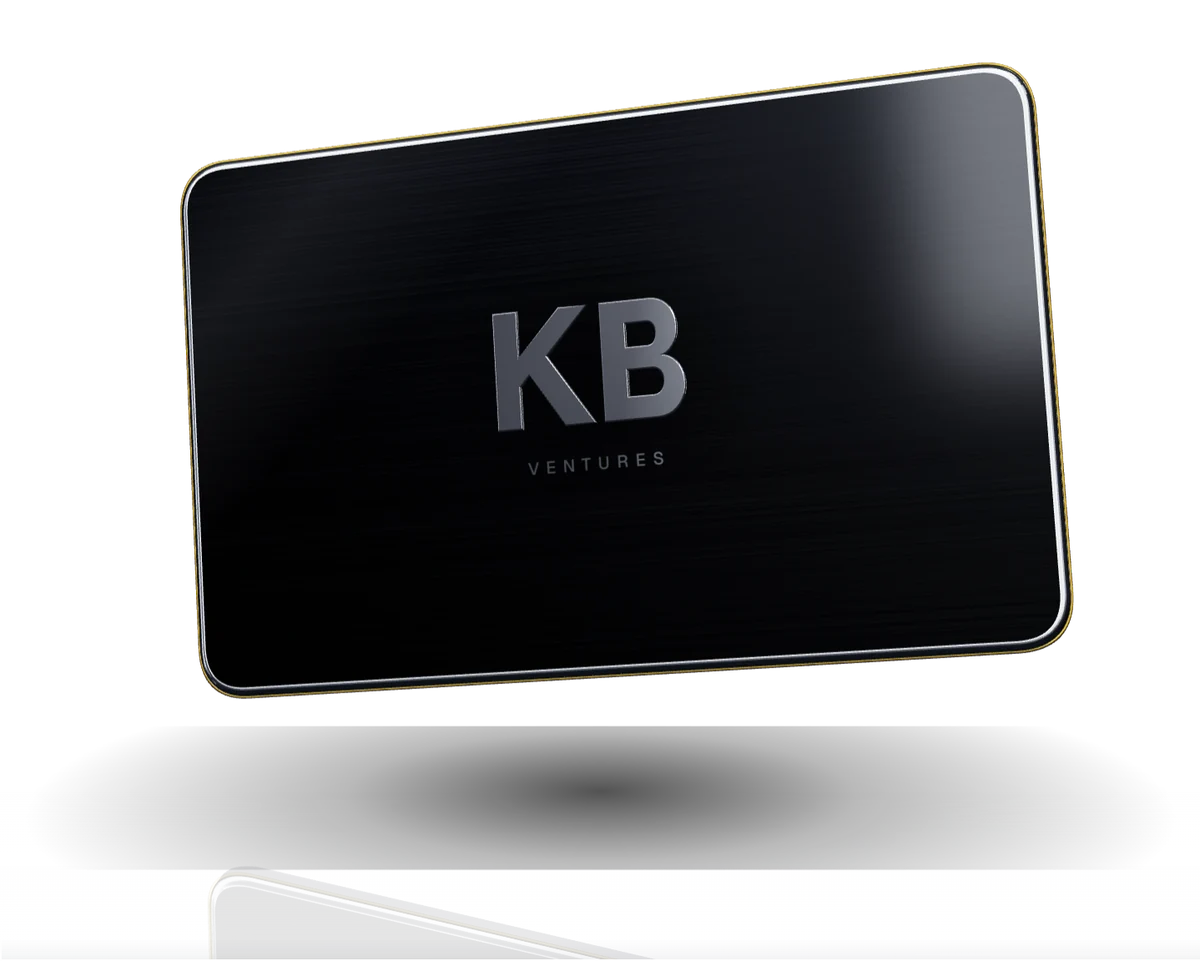
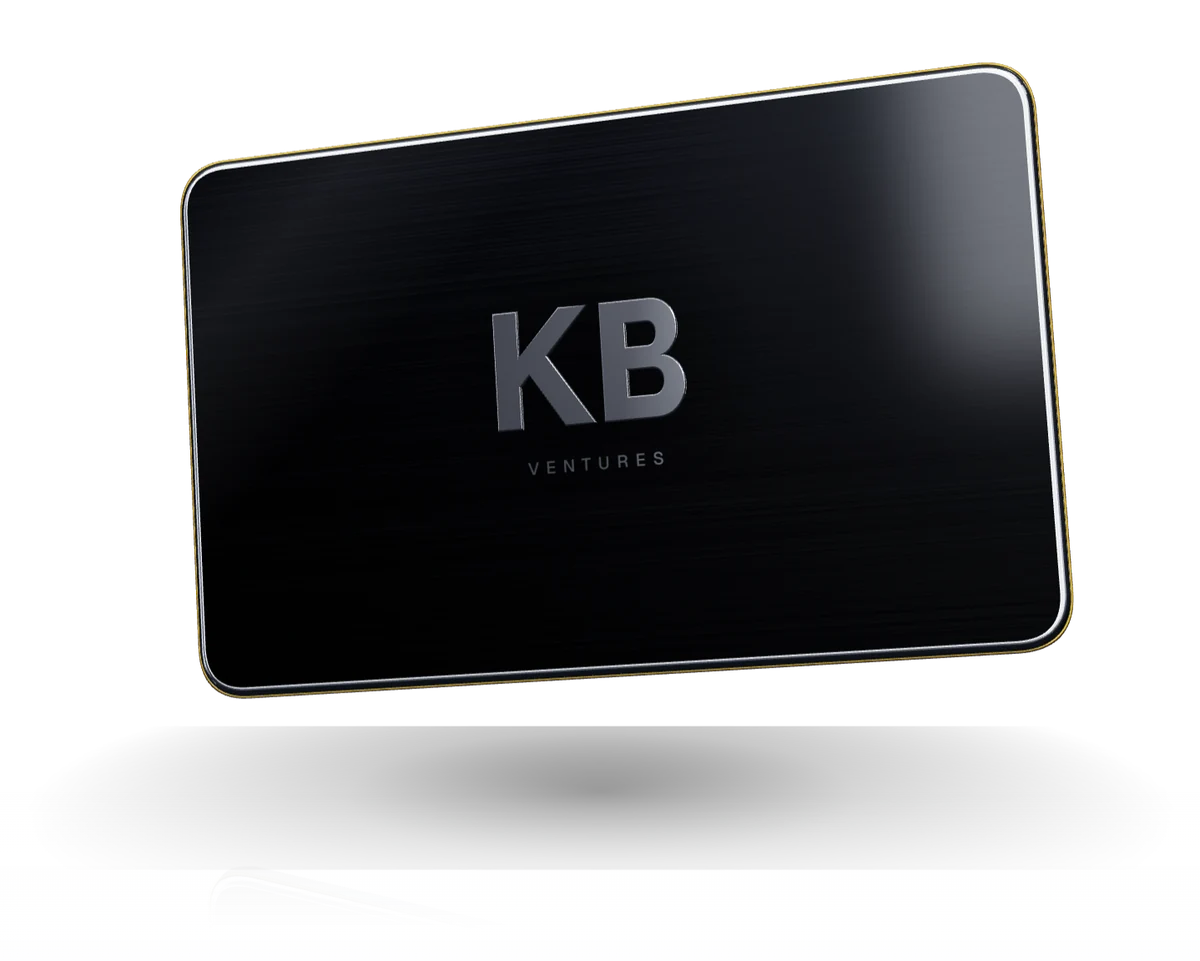
kbventures-site: metal-and-glass card hero (studio lighting, embossed mark, matching still), seam-free horizon bands, glossier cards, docs
Claude-Session: https://claude.ai/code/session_01BYVfkD9LZUq4PJnMCyeNm3

Changed region(s): [[0.1542, 0.7804, 0.8017, 0.999]]

diff --git a/kbventures-site/styles.css b/kbventures-site/styles.css
@@ -20,7 +20,7 @@
   --edge: linear-gradient(90deg, rgba(255, 255, 255, 0), rgba(255, 255, 255, .5) 50%, rgba(255, 255, 255, 0));
   --sheen: linear-gradient(115deg, rgba(255, 255, 255, 0) 30%, rgba(255, 255, 255, .05) 45%, rgba(255, 255, 255, .012) 52%, rgba(255, 255, 255, 0) 62%);
   /* a slightly lighter band at the horizon (bottom) of each section, like light falling on a glass floor */
-  --horizon: radial-gradient(75% 60px at 50% 100%, rgba(var(--light), .07), rgba(var(--light), 0) 100%), linear-gradient(180deg, rgba(var(--light), 0) 70%, rgba(var(--light), .022) 100%);
+  --horizon: radial-gradient(50% 50% at 50% 50%, rgba(var(--light), .065), rgba(var(--light), .02) 55%, rgba(var(--light), 0) 100%);
   --panel: linear-gradient(180deg, #20232B 0%, #181A21 55%, #15171D 100%);
   --metal-text: linear-gradient(180deg, #F5F6FA 0%, #E4E6ED 48%, #C3C7D0 100%); /* about 10% light-to-silver */
   --platinum-pill: linear-gradient(180deg, #F6F7FA 0%, #E2E4EA 52%, #CBCED6 100%);
@@ -110,6 +110,8 @@ a { color: inherit; }
 @media (min-width: 1024px) { .hero-stage { margin: 0 -48px 0 -16%; } }
 .hero-still, .hero-stage canvas { position: absolute; inset: 0; width: 100%; height: 100%; }
 .hero-still { object-fit: contain; transition: opacity 1.2s var(--ease); }
+/* the floor reflection under the object dissolves into the page */
+.hero-still, .hero-stage canvas { -webkit-mask-image: linear-gradient(180deg, #000 72%, rgba(0, 0, 0, 0) 97%); mask-image: linear-gradient(180deg, #000 72%, rgba(0, 0, 0, 0) 97%); }
 .hero-stage canvas { display: block; opacity: 0; transition: opacity 1.2s var(--ease); touch-action: pan-y; }
 .hero-stage.has-3d canvas { opacity: 1; }
 .hero-stage.has-3d .hero-still { opacity: 0; }
@@ -137,8 +139,10 @@ a { color: inherit; }
 .browser::after, .phone::after { content: ""; position: absolute; inset: 0; z-index: 1; pointer-events: none; border-radius: inherit; background: linear-gradient(128deg, rgba(255, 255, 255, .09) 0%, rgba(255, 255, 255, .025) 26%, rgba(255, 255, 255, 0) 42%); }
 
 /* ---------- Sections ---------- */
-.section { position: relative; padding-top: var(--section); padding-bottom: 1px; background: var(--horizon); }
-.hero { background: var(--horizon); padding-bottom: 48px; }
+.section { position: relative; padding-top: var(--section); }
+.hero { padding-bottom: 48px; }
+/* the horizon band straddles each section's bottom edge, so it fades out on both sides with no seam */
+.section::after, .hero::after { content: ""; position: absolute; z-index: -1; left: 0; right: 0; bottom: -90px; height: 180px; pointer-events: none; background: var(--horizon); }
 .section-contact { padding-bottom: var(--section); }
 .section-websites { isolation: isolate; overflow-x: clip; }
 .section-websites::before { content: ""; position: absolute; z-index: -1; left: 50%; top: 58%; width: min(1800px, 190vw); aspect-ratio: 2 / 1; transform: translate(-50%, -50%); pointer-events: none; background: radial-gradient(closest-side, rgba(var(--light), .11), rgba(var(--light), .04) 55%, rgba(var(--light), 0) 100%); }

diff --git a/kbventures-site/scene.js b/kbventures-site/scene.js
@@ -2,7 +2,8 @@
 // one fine brushed-gold line around the outer bevel and a raised, polished-metal KB mark. Lit by a small studio
 // (three bright light strips baked into the environment map) so the glass and bevels carry real specular highlights.
 // It floats in perspective with a slow drift, leans toward the pointer or the phone's tilt, and a wide soft reflection
-// sweeps across the face every few seconds. A contact shadow and a faint mirror image sit beneath it. Three.js r160.
+// sweeps across the face every few seconds. A contact shadow and a faint mirror image sit beneath it; the canvas fades
+// out at the bottom with a CSS mask so the mirror image dissolves into the page. Three.js r160.
 import * as THREE from 'three';
 
 const W = 3.2, H = 2.02, D = 0.05;   // a card's proportions, thin
@@ -166,15 +167,9 @@ export function initScene(canvas, { lowEnd = false, onLost = () => {} } = {}) {
   scene.add(shadow);
   const mirror = card.clone(true);
   mirror.traverse((o) => { if (o.material) { o.material = Array.isArray(o.material) ? o.material.map((m) => fade(m)) : fade(o.material); } });
-  function fade(m) { const c = m.clone(); c.transparent = true; c.opacity = (m.opacity ?? 1) * 0.1; c.depthWrite = false; return c; }
+  // faint; the canvas itself fades out at the bottom (CSS mask)
+  function fade(m) { const c = m.clone(); c.transparent = true; c.opacity = (m.opacity ?? 1) * 0.09; c.depthWrite = false; return c; }
   scene.add(mirror);
-  // a floor-coloured veil in front of the mirror image, so it fades out downward
-  const veil = new THREE.Mesh(new THREE.PlaneGeometry(9, 3.4), new THREE.MeshBasicMaterial({
-    map: canvasTexture(8, 256, (g, w, h) => { const grd = g.createLinearGradient(0, 0, 0, h); grd.addColorStop(0, 'rgba(9,11,17,0)'); grd.addColorStop(0.35, 'rgba(9,11,17,.75)'); grd.addColorStop(1, 'rgba(9,11,17,1)'); g.fillStyle = grd; g.fillRect(0, 0, w, h); }),
-    transparent: true, depthWrite: false, toneMapped: false,
-  }));
-  veil.position.set(0, FLOOR - 1.7, 1.4);
-  scene.add(veil);
 
   // Rest pose: tilted about 15 degrees back and 16 degrees sideways (also the pose of img/hero-object.webp)
   const REST = { x: -0.27, y: -0.28, z: 0.06 };

diff --git a/kbventures-site/hero.js b/kbventures-site/hero.js
@@ -1,6 +1,6 @@
 // Hero object: a pre-rendered still (img/hero-object.webp) is in the page from the start. The live Three.js version
 // fades in over it once loaded, but only when WebGL works, the visitor hasn't asked for reduced motion, Data Saver is off
-// and the device isn't a low-powered phone. Testing aids: ?3d=on forces 3D, ?3d=off keeps the still, ?shine=more|less.
+// and the device isn't a low-powered phone. Testing aids: ?3d=on forces 3D, ?3d=off keeps the still.
 const stage = document.getElementById('stage'), canvas = document.getElementById('scene');
 const reduceMotion = window.matchMedia('(prefers-reduced-motion: reduce)').matches;
 const q = new URLSearchParams(location.search);
@@ -27,7 +27,7 @@ if (stage && canvas) {
     loaded.then(idle)
       .then(() => (document.fonts ? document.fonts.ready : null)) // the mark on the glass uses Geist
       .then(() => import('./scene.js'))
-      .then((m) => m.initScene(canvas, { lowEnd, shine: q.get('shine') || 'less', onLost: () => fail(new Error('context lost')) }))
+      .then((m) => m.initScene(canvas, { lowEnd, onLost: () => fail(new Error('context lost')) }))
       .then((h) => {
         clearTimeout(timer);
         if (done) { h.dispose(); return; }

diff --git a/kbventures-site/brand.md b/kbventures-site/brand.md
@@ -25,13 +25,13 @@ Inspired by the *feel* of a premium dark product page (Revolut's Ultra plan page
 ```
 - **Type:** Geist (SIL Open Font License, self-hosted), weight 500 for headings, tight line height, slightly negative letter-spacing. Hero h1 `clamp(40px, 5.2vw, 76px)` (four lines beside the hero object), section h2 `clamp(34px, 6vw, 80px)`, body 17–18px at 1.6, small labels in uppercase with wide tracking in silver.
 - **Light and shine (replaces the earlier "nothing glows, no metallic fills" rule, 27 October 2026):** the page should look like a lit product photo of brushed metal and piano-black glass, restrained but visible.
-  - Background: a layered deep blue-black surface (`#090B11` base), a cool silver-blue light pool behind the hero object and a fainter one behind the demo row, a vignette at the screen edges, and 3.5% film grain so gradients never band.
-  - Hero: a Three.js (r160, self-hosted) slab of anisotropic brushed metal with a piano-black glass face, a thin brushed-gold edge and the KB Ventures mark, lit by a studio environment plus key and rim lights, with a soft shadow beneath. It turns slowly, leans toward the pointer or phone tilt, and a soft reflection sweeps the glass every 9 seconds. A pre-rendered still (`img/hero-object.webp`) stands in while it loads, without WebGL, on weak phones, on Data Saver and with reduced motion.
-  - Cards and frames: dark glossy panels with a 1px top-edge highlight fading to the sides, a faint diagonal sheen, a slightly lighter inner border, and one slow light sweep on hover. Screenshot frames are polished dark-metal bezels with a bright edge and a soft reflection on the glass.
+  - Background: a layered deep blue-black surface (`#090B11` base) that reads like lit glass: a faint light from the top of the screen, three cool silver-blue light pools (behind the hero object, the demo row and the contact section), a slightly lighter band at the horizon of each section that fades out on both sides of the edge, a vignette at the screen edges, and 3.5% film grain so gradients don't band.
+  - Hero: a Three.js (r160, self-hosted) card, not a framed screen. It has the proportions of a thin card with corners at 6% of its width, deep black glass over fine brushing with a subtle vertical gradient, and a slim bevelled metal edge that catches a bright line along the top and falls dark at the bottom. One fine brushed-gold line runs around the outer bevel only, and the KB mark is raised polished metal with a soft shadow, with VENTURES in metallic foil. It is lit by a small studio built into the environment map (three bright light strips plus a soft panel above the viewer), so it carries real specular highlights. It is tilted about 15 degrees on two axes, drifts slowly, leans toward the pointer or phone tilt, and a wide soft reflection sweeps the face every 7 seconds. A contact shadow and a faint mirror image sit beneath it, fading into the page. A pre-rendered still (`img/hero-object.webp`) stands in while it loads, without WebGL, on weak phones, on Data Saver and with reduced motion.
+  - Cards and frames: dark glossy panels with a 1px bright top edge fading to the sides, a faint diagonal sheen, a slightly lighter inner border, a soft shadow underneath, and one slow light sweep on hover. Screenshot frames are polished dark-metal bezels with a bright edge and a soft reflection on the glass.
   - Headlines: platinum with a light-to-silver vertical fall-off of about 10%, repeated per line. Primary pills: polished platinum with a fine top highlight, and a highlight that slides across once on hover.
-  - Never rainbow or gold gradients, never neon, never pulsing or blinking. Two shine levels were compared and the quieter one shipped.
+  - Never rainbow or gold gradients, never neon, never pulsing or blinking. New hero objects are compared with the previous one, and only the one that looks more like a real expensive object ships.
 - **Buttons:** small pills. Primary is polished platinum (light to slightly darker platinum, fine top highlight, a small soft drop shadow) with obsidian text. Secondary is dark glass with a 1px silver border that turns gold on hover.
-- **Gold, used only for:** the short hairline under the hero label, secondary-button borders on hover, links on hover, the Live/Starting dots, and the thin brushed-gold edge (and hairline under the mark) on the hero object.
+- **Gold, used only for:** the short hairline under the hero label, secondary-button borders on hover, links on hover, the Live/Starting dots, and the single fine brushed-gold line on the hero card's outer bevel.
 - **Cards:** glossy graphite panels (see Light and shine), 1px silver border, 20px radius. Secondary text starts dimmed and brightens to platinum on hover or focus. (The brief asked for silver at about 60% opacity, but that measures 2.75:1 on graphite, under the 4.5:1 minimum. So the dimmed state is full silver at 5.3:1 and the hover state is platinum: the same effect, still readable.)
 - **Layout:** on desktop the hero has two columns, text on the left (about 57%) and the lit object on the right, overlapping the column edge a little; on phones they stack. Every later section is centred (headline, one paragraph, one pill, then the visual). 140px or more between sections on desktop, 80px on phones.
 - **Nav:** slim and sticky. Wordmark on the left; Businesses, Websites, Contact and a small "Get in touch" pill on the right. On phones the text links fold away and the pill stays.

diff --git a/kbventures-site/CHANGES.md b/kbventures-site/CHANGES.md
@@ -1,4 +1,46 @@
-# Changes: KB Ventures, brushed metal and piano-black glass (27 October 2026)
+# Changes: KB Ventures, a real metal-and-glass card (28 October 2026)
+
+The layout, copy, footer, buttons and demo row are unchanged. This round fixes the three things that still looked flat.
+
+## 1. Hero object: a card, not a framed screen
+- **Shape:** rebuilt as a thin card with corners rounded to 6% of its width. The front is deep black glass all the way to a slim bevelled metal edge, so the thick silver border and the gold inner outline are gone.
+- **Edge lighting:** the bevel catches a bright highlight along the top and falls darker at the bottom. One fine brushed-gold line runs around the outer bevel only.
+- **Face:** deep black glass with a subtle vertical gradient over fine horizontal brushing, under a clear coat. A wide, soft reflection band sweeps across it every 7 seconds.
+- **Mark:** "KB" is raised polished metal, built as real 3D letters with a bevelled top edge that catches the light and a soft shadow in the glass beneath. "VENTURES" sits below in metallic foil.
+- **Lighting:** a small studio built into the environment map, with three bright light strips (overhead, left, back-right) and a soft panel above the viewer. The glass and bevels show real specular highlights instead of plain grey.
+- **Pose and motion:** tilted about 15 degrees back and 16 degrees sideways, in real perspective. It drifts slowly, leans gently toward the mouse (or the phone's tilt on Android), and has a soft contact shadow and a faint mirror image beneath it that fades into the page.
+- **Still fallback:** `img/hero-object.webp` was re-rendered from the same scene, so it matches the live 3D. It shows while the 3D loads, without WebGL, on Data Saver, on low-powered phones and with reduced motion.
+- **Compared with the old object:** side by side, the old one read as a TV in a silver frame and the new one as a real metal card, so the new one ships. It took three lighting passes before the raised mark read as polished metal rather than dark grey.
+
+## 2. Background with depth
+- A deep blue-black base with a faint light from the top of the screen.
+- Three soft cool light pools, behind the hero object, behind the demo row and behind the contact section.
+- A slightly lighter band at the horizon of each section. It straddles the section edge and fades out on both sides, so there is no seam.
+- A vignette at the screen edges and a 3.5% film grain over everything.
+
+## 3. Glossier cards
+The "What we run" and demo cards now have a brighter 1px top edge fading to the sides, a stronger diagonal sheen, a lighter inner border and a soft shadow underneath. On hover, one slow light sweep passes across once, with no pulsing or blinking.
+
+## Checked
+- At 360, 390, 768, 1024 and 1440px, at 125% zoom and with reduced motion: no sideways scrolling, no overlapping text, no text under 12px, all tap targets at least 44px, all text at least 4.5:1, no broken images, no console errors, and no requests outside the site.
+- The footer wordmark fits in full at every one of those widths.
+- Carousel keys, dots and buttons, card brightening on hover and gold pill borders all still work.
+- Fixed along the way:
+  - a dark "floor" rectangle that showed under the object (replaced by a soft CSS fade);
+  - a hard seam where each section's horizon band ended;
+  - a syntax slip that briefly broke the 3D before release.
+- **Banding:** with the contrast stretched 14x, the darkest gradients show faint contour steps under the grain. At normal brightness, or on a bright phone, they are far below visible.
+- **Weight:** about 40–110 KB without the 3D, and about 0.7–0.8 MB with it from the local server (mostly Three.js, which GitHub Pages compresses). The 3D loads only after the page is ready.
+
+## Left as they were
+- The 3D was checked in headless Chromium with software rendering, not on a physical phone or GPU.
+- iPhones need a permission prompt for tilt, so there the card only drifts.
+- Unused files still in the folder, because this session may not run `rm`: the Barlow Condensed, Inter, Instrument Serif and Schibsted Grotesk fonts, and `vendor/addons/` (RoomEnvironment, replaced by the custom studio).
+- The repo's top-level `404.html` is still empty, and the AceGuides shop link is still blank.
+
+---
+
+# Earlier: brushed metal and piano-black glass (27 October 2026)
 
 This builds on the dark redesign from earlier the same day. The palette, copy, demo list and section order are unchanged. The owner replaced the earlier "no glow, no shiny metallic fills" rule with a shine brief; the new rules are in `brand.md` under "Light and shine".
 

diff --git a/kbventures-site/README.md b/kbventures-site/README.md
@@ -7,7 +7,7 @@ Live: https://kirithikbala21-jpg.github.io/3D-demo-sites/kbventures-site/
 ## Files
 - `site.config.json`: the one file to edit (email, AceGuides shop link, demo list, demo note)
 - `index.html`, `styles.css`, `main.js` (smooth scroll, the hero object's parallax, slow fade-ups, the concept-websites carousel, content from the config)
-- `hero.js` and `scene.js`: the 3D brushed-metal and glass object in the hero (Three.js). `?3d=off` shows the still image, `?3d=on` forces 3D, `?shine=more` shows the brighter version that was not chosen.
+- `hero.js` and `scene.js`: the 3D metal-and-glass card in the hero (Three.js). `?3d=off` shows the still image, `?3d=on` forces 3D.
 - `img/hero-object.webp`: the still of the same object, used while the 3D loads and whenever it can't run. Rebuild it with `tools/render-hero-still.mjs` after changing `scene.js`.
 - `img/grain.png`: the film-grain tile laid over the page at 3.5%
 - `404.html`: page-not-found page (works both in this folder and at the root of its own repo)
@@ -15,7 +15,7 @@ Live: https://kirithikbala21-jpg.github.io/3D-demo-sites/kbventures-site/
 - `tools/screenshot-demos.mjs`: rebuilds those screenshots; `tools/render-hero-still.mjs`: rebuilds the hero still (instructions at the top of each file)
 - `og.jpg` (1200 x 630 share image), `favicon.ico`, `favicon-32.png`, `apple-touch-icon.png`
 - `fonts/geist-latin.woff2`: Geist, SIL Open Font License (`geist-OFL.txt`)
-- `vendor/`: Lenis 1.1.18, Three.js r160 (`three.module.min.js`) and its `RoomEnvironment` add-on
+- `vendor/`: Lenis 1.1.18 and Three.js r160 (`three.module.min.js`). The `RoomEnvironment` add-on is no longer used; the hero builds its own studio lighting.
 
 ## Add a website demo
 1. Open `site.config.json` and add one entry to `demos`:
